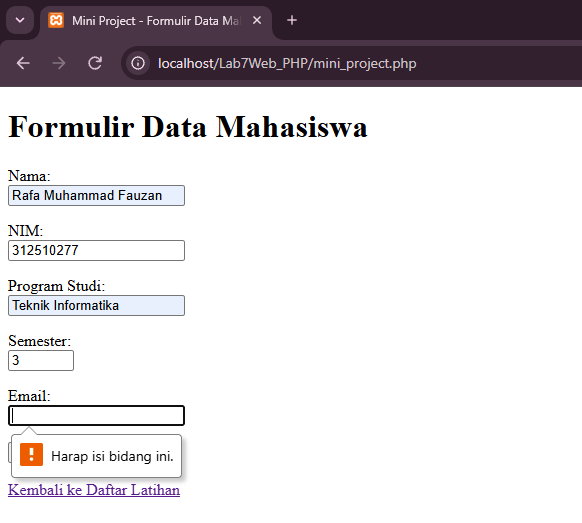
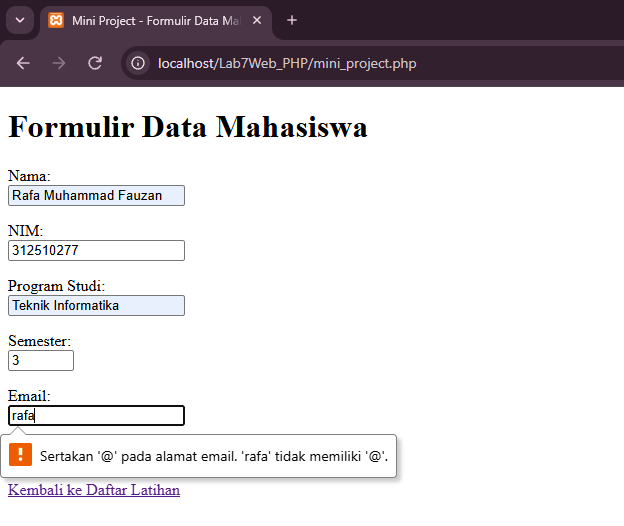
Praktikum 7: PHP server-side

diff --git a/README.md b/README.md
@@ -933,14 +933,13 @@ Pengujian dilakukan pada Latihan 7, Mini Project, dan Eksperimen 4. Untuk menguj
 
 | No | Halaman | Input | Jenis | Hasil |
 |---|---|---|---|---|
-| 1 | Latihan 7 | Pensil, harga 2500, jumlah 4 | Valid | Subtotal Rp10.000,00 |
-| 2 | Latihan 7 | Buku, harga 1500,50, jumlah 3 | Valid | Subtotal Rp4.501,50 |
-| 3 | Latihan 7 | Pensil, harga 2500, jumlah 0 | Tidak valid | Muncul pesan "Periksa kembali nama barang, harga, dan jumlah." |
-| 4 | Latihan 7 | Nama barang berisi spasi saja | Tidak valid | Muncul pesan error yang sama karena nama kosong setelah `trim()` |
-| 5 | Mini Project | Rafa Muhammad Fauzan, 312510277, Teknik Informatika, semester 4, email `mahasiswa@example.com` | Valid | Ringkasan data mahasiswa tampil |
-| 6 | Mini Project | NIM `31251AB`, semester 15, email `rafa` | Tidak valid | Tampil tiga pesan: format email tidak valid, semester harus 1–14, dan NIM harus 9 digit angka |
-| 7 | Eksperimen 4 | NIM `312510277` | Valid | Kotak hijau "NIM valid" |
-| 8 | Eksperimen 4 | NIM `12345` | Tidak valid | Kotak merah: NIM harus tepat 9 digit (memasukkan 5 digit) |
+| 1 | Latihan 7 | Susu, harga 12500, jumlah 3 | Valid | Subtotal Rp37.500,00 |
+| 2 | Latihan 7 | Susu, harga 12500, jumlah 0 | Tidak valid | Muncul pesan "Periksa kembali nama barang, harga, dan jumlah." |
+| 3| Latihan 7 | Nama barang berisi spasi saja | Tidak valid | Muncul pesan error yang sama karena nama kosong setelah `trim()` |
+| 4 | Mini Project | Rafa Muhammad Fauzan, 312510277, Teknik Informatika, semester 3, email `rafamuhammadm@gmail.com` | Valid | Ringkasan data mahasiswa tampil |
+| 5 | Mini Project | Rafa Muhammad Fauzan, 312510277, Teknik Informatika, semester 3, email `rafa` | Tidak valid | Format email tidak valid |
+| 6 | Eksperimen 4 | NIM `312510277` | Valid | Kotak hijau "NIM valid" |
+| 7 | Eksperimen 4 | NIM `3121510277` | Tidak valid | Kotak merah: NIM harus tepat 9 digit (memasukkan 10 digit) |
 
 ---
 
